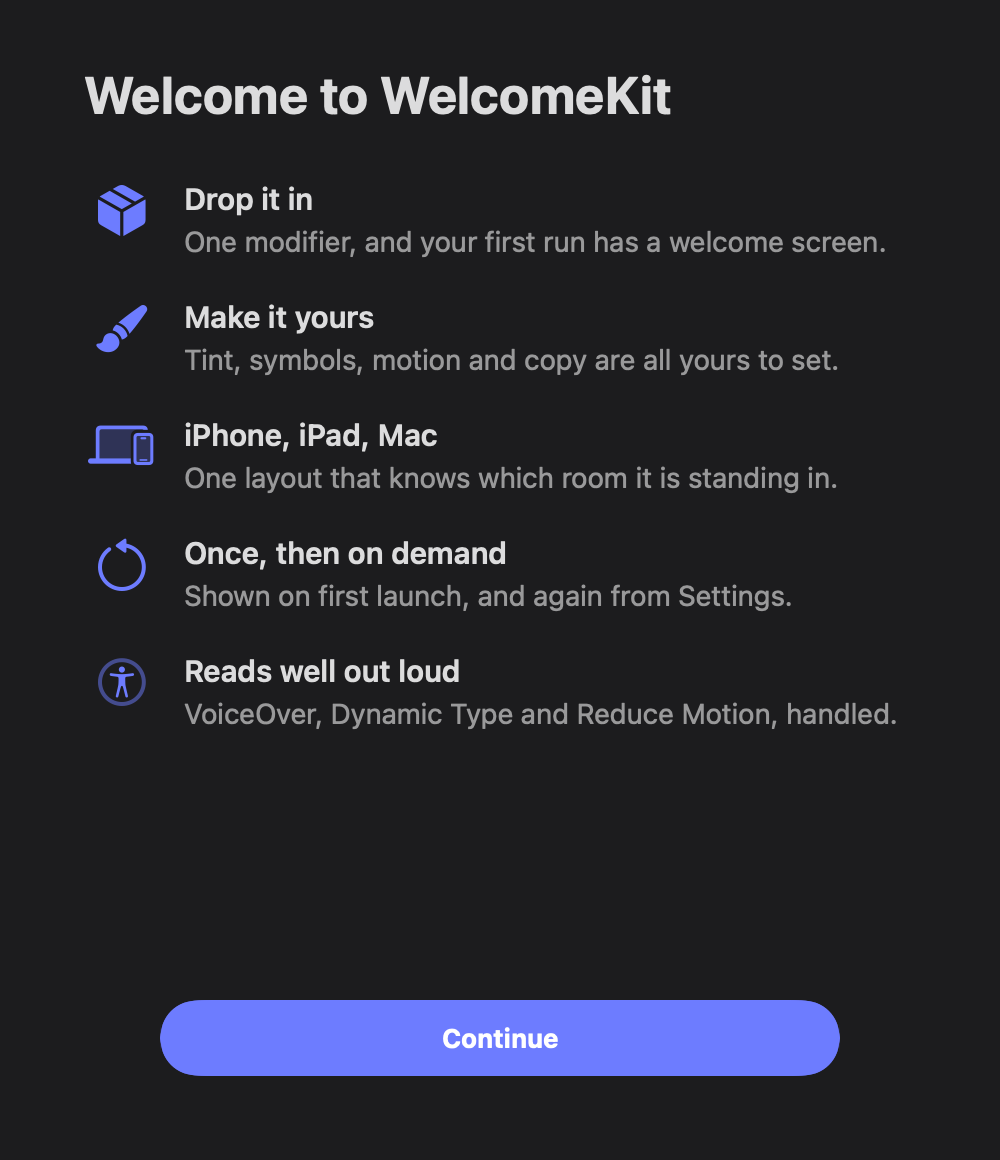
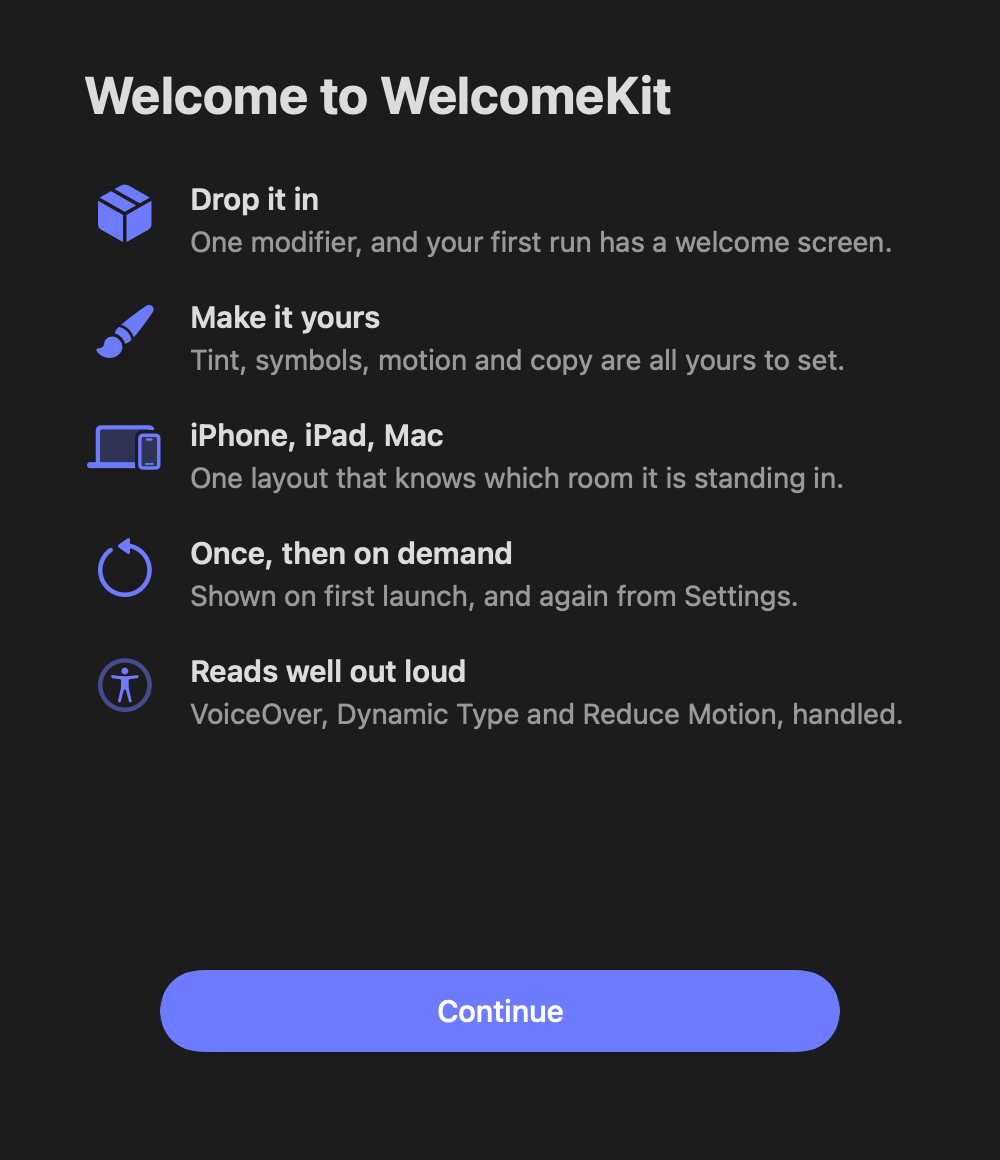
Give the Mac call to action and symbols their own numbers
The macOS sheet was inheriting choices that only read well on a phone:

- symbols go from 24pt to 27pt, in a 41x33 gutter rather than 38x30
- the button label is 15pt medium instead of `.headline`, which a Mac
  resolves to 13pt semibold and reads heavier than the same button on iOS
- 46pt under the button instead of 34, so it sits off the bottom edge

`buttonFont` joins the configuration for anyone who wants a different one.

diff --git a/Sources/WelcomeKit/WelcomeConfiguration.swift b/Sources/WelcomeKit/WelcomeConfiguration.swift
@@ -48,8 +48,7 @@ public struct WelcomeConfiguration: @unchecked Sendable {
 
     // MARK: - Symbols
 
-    /// Point size of the SF Symbols. `nil` uses 28pt on iOS and 24pt on macOS,
-    /// matching the platform's own welcome sheets.
+    /// Point size of the SF Symbols. `nil` uses 28pt on iOS and 27pt on macOS.
     public var symbolSize: CGFloat?
 
     /// Stroke weight of the SF Symbols.
@@ -65,6 +64,11 @@ public struct WelcomeConfiguration: @unchecked Sendable {
 
     /// Font of each feature's second line. `nil` uses `.body`.
     public var featureSubtitleFont: Font?
+
+    /// Font of the button's label. `nil` uses `.headline` on iOS and 15pt medium
+    /// on macOS, where `.headline` comes out both smaller and heavier than the
+    /// same button reads on a phone.
+    public var buttonFont: Font?
 
     /// Alignment of the title. Feature rows always read from the leading edge.
     public var titleAlignment: TextAlignment
@@ -128,6 +132,7 @@ public struct WelcomeConfiguration: @unchecked Sendable {
         titleFont: Font? = nil,
         featureTitleFont: Font? = nil,
         featureSubtitleFont: Font? = nil,
+        buttonFont: Font? = nil,
         titleAlignment: TextAlignment = .leading,
         titleLineLimit: Int? = 2,
         footnote: WelcomeText? = nil,
@@ -149,6 +154,7 @@ public struct WelcomeConfiguration: @unchecked Sendable {
         self.titleFont = titleFont
         self.featureTitleFont = featureTitleFont
         self.featureSubtitleFont = featureSubtitleFont
+        self.buttonFont = buttonFont
         self.titleAlignment = titleAlignment
         self.titleLineLimit = titleLineLimit
         self.footnote = footnote
@@ -370,9 +376,10 @@ public struct WelcomeMetrics: Sendable, Equatable {
         #if os(macOS)
         WelcomeMetrics(
             compactTopPadding: 32,
+            extraBottomPadding: 46,
             actionLabelPadding: 5,
-            symbolColumnWidth: 38,
-            symbolColumnHeight: 30
+            symbolColumnWidth: 41,
+            symbolColumnHeight: 33
         )
         #else
         WelcomeMetrics()

diff --git a/Sources/WelcomeKit/WelcomeView.swift b/Sources/WelcomeKit/WelcomeView.swift
@@ -226,7 +226,7 @@ public struct WelcomeView: View {
     private var continueLabel: some View {
         configuration.continueTitle
             .text(bundle: configuration.localizationBundle, tableName: configuration.localizationTable)
-            .font(.headline)
+            .font(resolvedButtonFont)
             .padding(.vertical, metrics.actionLabelPadding)
             .welcomeFlexibleLabelWidth()
     }
@@ -281,6 +281,18 @@ public struct WelcomeView: View {
         return .system(size: 26, weight: .bold)
         #else
         return .title.weight(.bold)
+        #endif
+    }
+
+    /// `.headline` is 17pt semibold on iOS and 13pt semibold on macOS, so the
+    /// same font reads as a heavier, smaller label on a Mac. 15pt medium lands
+    /// where the phone button already is.
+    private var resolvedButtonFont: Font {
+        if let font = configuration.buttonFont { return font }
+        #if os(macOS)
+        return .system(size: 15, weight: .medium)
+        #else
+        return .headline
         #endif
     }
 
@@ -443,7 +455,7 @@ private struct WelcomeFeatureRow: View {
     private var resolvedSymbolSize: CGFloat {
         if let size = configuration.symbolSize { return size }
         #if os(macOS)
-        return 24
+        return 27
         #else
         return 28
         #endif

diff --git a/Tests/WelcomeKitTests/WelcomeKitTests.swift b/Tests/WelcomeKitTests/WelcomeKitTests.swift
@@ -61,12 +61,14 @@ struct LayoutTests {
         let metrics = WelcomeMetrics.automatic
         #if os(macOS)
         #expect(metrics.compactTopPadding == 32)
-        #expect(metrics.symbolColumnWidth == 38)
+        #expect(metrics.symbolColumnWidth == 41)
         #expect(metrics.actionLabelPadding == 5)
+        #expect(metrics.extraBottomPadding == 46)
         #else
         #expect(metrics.compactTopPadding == 84)
         #expect(metrics.symbolColumnWidth == 42)
         #expect(metrics.actionLabelPadding == 0)
+        #expect(metrics.extraBottomPadding == 34)
         #endif
     }
 }

diff --git a/README.md b/README.md
@@ -100,7 +100,7 @@ configuration.footnote = "You can change this later in Settings."
 | `buttonStyle` | `.automatic`, `.prominent`, `.glass`, `.bordered`. |
 | `continueTitle`, `footnote` | The copy. Localized keys by default. |
 | `maximumFeatureCount` | Show the first N rows of a longer list. |
-| `titleFont`, `featureTitleFont`, `featureSubtitleFont` | Fonts, if the defaults are not your defaults. |
+| `titleFont`, `featureTitleFont`, `featureSubtitleFont`, `buttonFont` | Fonts, if the defaults are not your defaults. |
 | `metrics` | Every padding, width and breakpoint in the layout. |
 | `localizationBundle`, `localizationTable` | Where the keys are looked up. |
 
@@ -130,9 +130,10 @@ the top padding drops, because a sheet has no notch to clear. The check is a
 measured width *and* the iPad idiom, so an iPhone in landscape and an iPad in
 Slide Over both keep the phone numbers.
 
-**Mac** takes a 500×580 sheet with a 26pt title and 24pt symbols, caps the button
-at the same 340pt iPad uses, and pads its own bottom, since there's no home
-indicator to sit above.
+**Mac** takes a 500×580 sheet with a 26pt title and 27pt symbols, caps the button
+at the same 340pt iPad uses, sets the label in 15pt medium rather than the
+smaller, heavier `.headline` a Mac resolves that to, and pads its own bottom,
+since there's no home indicator to sit above.
 
 ## What it handles for you
 
